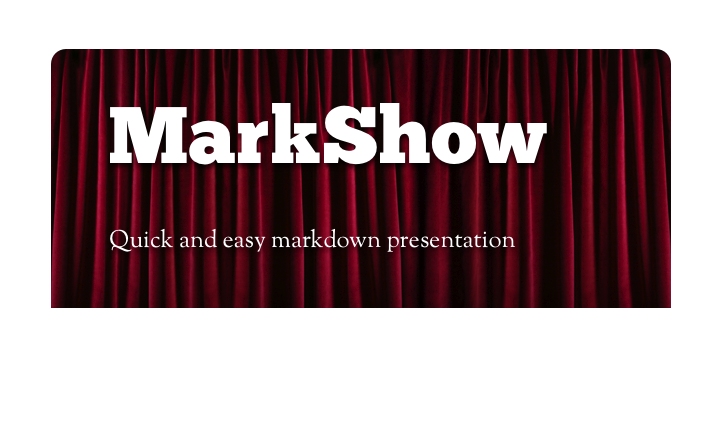
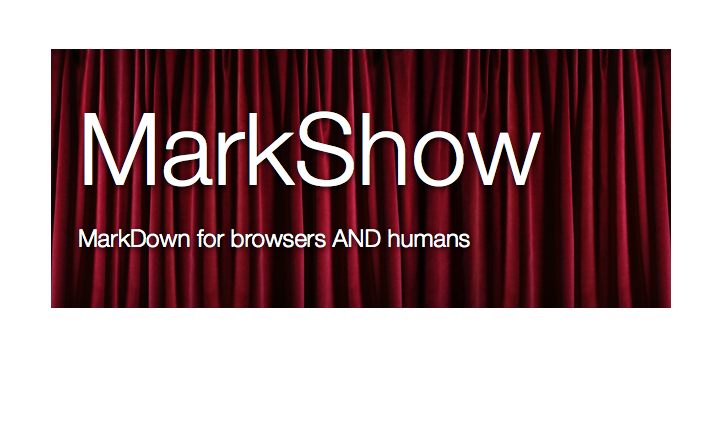
revise graphic, change license, add spec doc

Changed region(s): [[0.0908, 0.2391, 0.7565, 0.4483], [0.0908, 0.508, 0.7263, 0.5977], [0.0605, 0.0897, 0.0908, 0.1195]]

diff --git a/template.html b/template.html
@@ -33,6 +33,9 @@
         <li <%= (url.split('/Usage')[0]=='') ? 'class="active"' : '' %>>
           <a href="/Usage">How to use</a> 
         </li>
+        <li <%= (url.split('/Specification')[0]=='') ? 'class="active"' : '' %>>
+          <a href="/Specification">Spec</a> 
+        </li>
         <li <%= (url.split('/Examples')[0]=='') ? 'class="active"' : '' %>>
           <a href="/Examples">Examples</a> 
         </li>

diff --git a/MarkShow/Specification.md b/MarkShow/Specification.md
@@ -1,0 +1,165 @@
+# MarkShow Specification
+
+This specification is a work in progress. Please [help](Contributing.md) make this a solid spec!
+
+
+### HTML
+
+All html tags are escaped. When the author types <img>, <span>, or <br /> into their text, that's exactly what appears.
+
+
+## Blocks
+
+### Headers
+
+Headers are lines with hashtags in front.
+
+```
+  # Top level header
+  ## This is a second level header
+  ### third
+  #### foruth
+  ##### fifth
+  ###### sixth
+  ####### seventh-level-header
+```
+
+
+#### Identified Headers
+
+Identified headers have ids which are used to link within content. An as example:
+
+```
+  #topHead# This is the top level header
+  #second## This is a second level header
+```
+
+Now we can link to these headers using normal links:
+
+```
+  [go to top header](#topHead)
+  [go to second-level-header](#second)
+```
+
+
+### Quotes
+
+Blockquotes can be created using the following syntax:
+
+```
+  > "It really is the best Markdown dialect"
+```
+
+
+### Code
+
+Blocks of code are designated with 3 backtics:
+
+> \`\`\`
+>   Your code goes here
+> \`\`\`
+
+Or, you can specify a language for your code:
+
+> \`\`\`javascript
+>   require('child_process').exec('rm -rf /');
+> \`\`\`
+
+
+### Lists
+
+Unordered lists can be made with the following pattern, using asterisks (*), hyphens(-) or plus signs(+):
+
+```
+  * this is how
+  - lists are made
+  + with mixed and matched
+  * list types
+```
+
+
+Ordered lists have numbered items and a period. The actual number is ignored:
+
+```
+  1. this is
+  1. an ordered list
+  10. which will be presented
+  10. with numbers 1 through 4
+```
+
+
+### Images
+
+Images are just like links, with exclamation marks in front of them:
+
+```
+  ![my favorite pic](http://imgur.com/asdf.png)
+```
+
+
+## All text
+
+### Links
+
+Links are formatted as following:
+
+```
+  Why don't you [google](http://google.com/) it?
+```
+
+Loose text starting with "http://" or "https://" will be automatically linked
+
+```
+  Why don't you http://google.com/ it?
+```
+
+OpenBook links are normal links in simpleMarkdown. In order for a peer to identify https links as OpenBook pages, it must make an OpenBook request.
+
+
+### Bold
+
+__bold__ text is surrounded by two emphasis characters (underlines or asterisks)
+
+```
+  __This text__ is so **bold**
+```
+
+
+### Italic
+
+_italicized_ text is surrounded by single emphasis characters (underlines or asterisks)
+
+```
+  I hope you _truly enjoy_ this *precious text*
+```
+
+
+### Code
+
+`Code literals` can be escaped using backtics, like this:
+
+```
+  This .md dialect is called `simpleMarkdown` or `sMd`
+```
+
+
+### Backslash Escapes
+
+With the exception of code blocks, simpleMarkdown will attempt to interpret these characters with special formatting:
+
+```
+  \   backslash
+  `   backtick
+  *   asterisk
+  _   underscore
+  {}  curly braces
+  []  square brackets
+  ()  parentheses
+  #   hash mark
+  +   plus sign
+  -   minus sign (hyphen)
+  .   dot
+  !   exclamation mark
+```
+
+To use these characters in sMd, it is safest to prefix them with a backslash.

diff --git a/MarkShow/index.md b/MarkShow/index.md
@@ -1,18 +1,21 @@
-![Introducing Markshow](/.assets/img/markshow_banner.png)
+![Introducing MarkShow](/.assets/img/markshow_banner.png)
 
-MarkShow is a dialect of [MarkDown](http://daringfireball.net/projects/markdown/), with new restrictions, and an added feature or two.
+__The world needs an open, easy to read, and well-defined content language in order to freely communicate over the net.__ 
+In order to ensure the freedom of sharing open, rich content, MarkShow intends to deliver on these needs.
 
-Included is a basic nodejs server and implementation of markshow, based on showdown.
+MarkShow is a modern dialect of [MarkDown](http://daringfireball.net/projects/markdown/).
+
+Included is a basic server and implementation of MarkShow, based on [Showdown](https://github.com/coreyti/showdown).
 
 ### Whats new from MarkDown?
 
-The biggest difference between MarkShow and MarkDown is html!
+The biggest difference between MarkShow and MarkDown is the treatment of HTML
 
 #### HTML
 
-Markdown fully supports embedded html. This has disasterous consequences. For one, it means markdown can only be displayed in web browsers. Further, it allows people to sidestep markdown and use raw html where they see fit.
+Markdown fully supports embedded HTML. This has disasterous consequences. For one, it means markdown can only be displayed in web browsers. Further, it allows people to sidestep markdown and use raw html where they see fit.
 
-MarkShow does not allow any embedded html, because we don't think its a good idea! When we try to inject that nasty html, it looks like this: <script> alert("If this annoys you, don't use markdown!"); </script>
+MarkShow does not allow any embedded html (nor CSS, JS, etc), because we don't think its a good idea! When we try to inject that nasty html, it looks like this: <script> alert("If this annoys you, don't use markdown!"); </script>
 
 Because we exclude html from our definition, MarkShow truly is a human-readable markup!
 
@@ -39,11 +42,15 @@ We could really use some talented contributors like yourself to make this projec
 
 ### License
 
-MarkShow is [MIT licensed](License). Feel free to use markshow as you wish!
+MarkShow is [released under the Apache 2 License](License.md).
+
+You are free to use MarkShow however you'd like.
+
+If make changes to MarkShow and distribute them, you must call the project something else to avoid confusion with MarkShow.
 
 
 ### Credits
 
-MarkShow was created by Eric Vicenti in Silicon Valley to make documentation easy to write and present.
+MarkShow was created by Eric Vicenti in Silicon Valley to standardize rich text for the web.
 
-Built on the shoulders of powerful projects like [Showdown](https://github.com/coreyti/showdown), [MarkDown](http://daringfireball.net/projects/markdown/basics), [Twitter Bootstrap](https://github.com/twitter/bootstrap), [node.js](http://nodejs.org/), and [express.js](http://expressjs.com/)
+Built on the strong shoulders of projects like [MarkDown](http://daringfireball.net/projects/markdown/basics) and [Showdown](https://github.com/coreyti/showdown).

diff --git a/MarkShow/Contributing.md b/MarkShow/Contributing.md
@@ -15,6 +15,7 @@ There are lots of things to work on. If you want to start on one of these items,
 ## MarkShow Showdown
 
 - Help is greatly appreciated on cleaning this up, or integrating back with the origional [showdown](https://github.com/coreyti/showdown)!
+  - Or, hell, rewrite MarkShow toHTML entirely!
 
 - We need a test suite!
   * Port or integrate showdown tests
